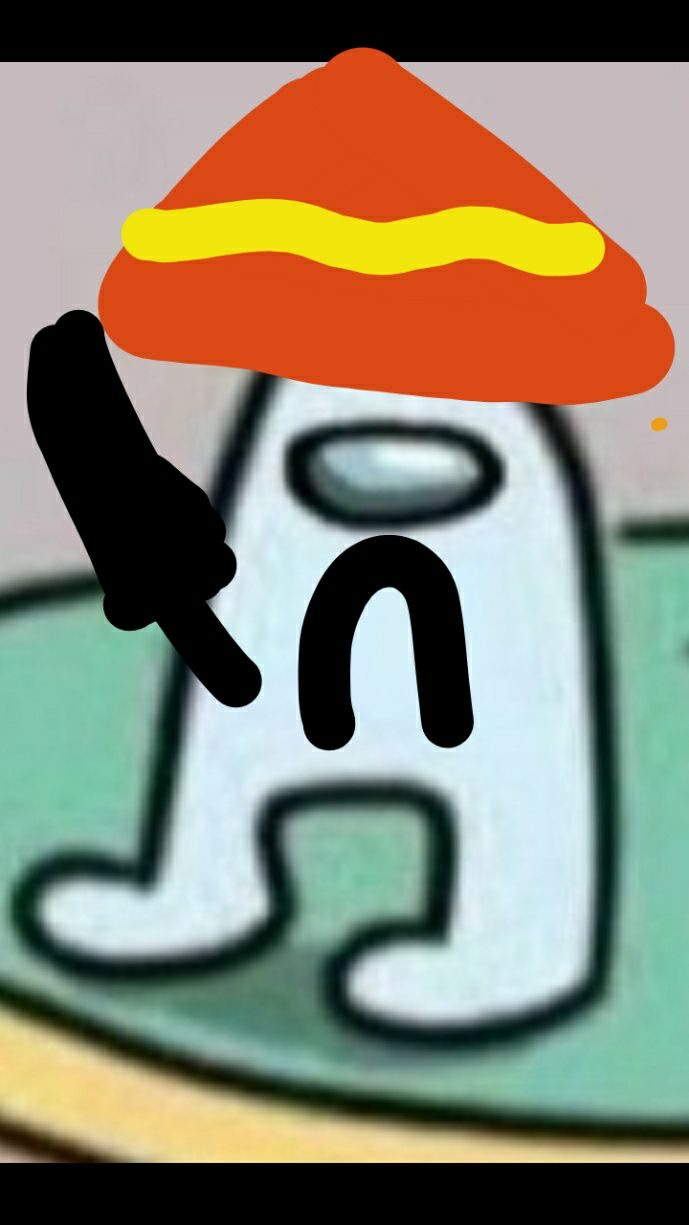
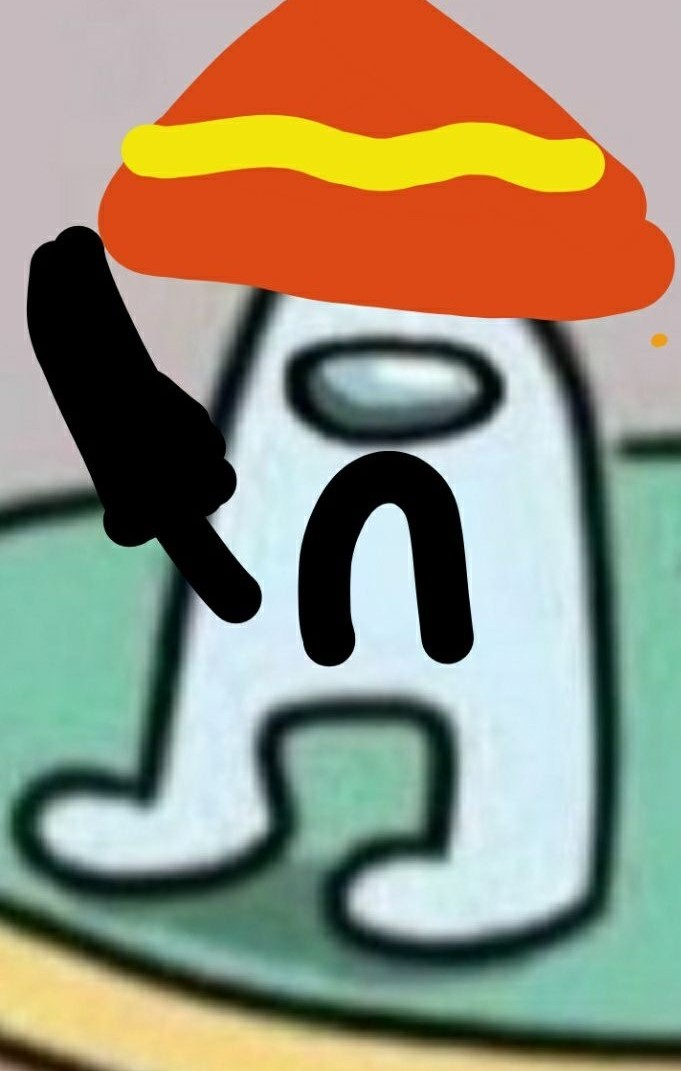
Retrait des bordures noires et maj de NEWLINE.md
Retrait des bordures noires des fichiers:
- amogus-poli.jpeg
- chinus.jpeg
- galaxus.jpeg
- gokus.jpeg
- impostor.jpeg
- laserus.jpeg
- livrus.jpeg
- musclus.jpeg
- naturus.jpeg
- piratus.jpeg
- seinsus.jpeg
- thugus.jpeg
- vampirus.jpeg

diff --git a/NEWLINE.md b/NEWLINE.md
@@ -8,6 +8,6 @@
 
 (une fois modifié avec les bonnes valeurs,)
 
-||||
+|Nom|Image|Lien|
 |---|---|---|
 |amogus|<p><img src=https://raw.githubusercontent.com/Apix0n/Armus/susbranch/files/amogus.jpeg height=150></p>|[Lien](https://raw.githubusercontent.com/Apix0n/Armus/susbranch/files/amogus.jpeg)|
